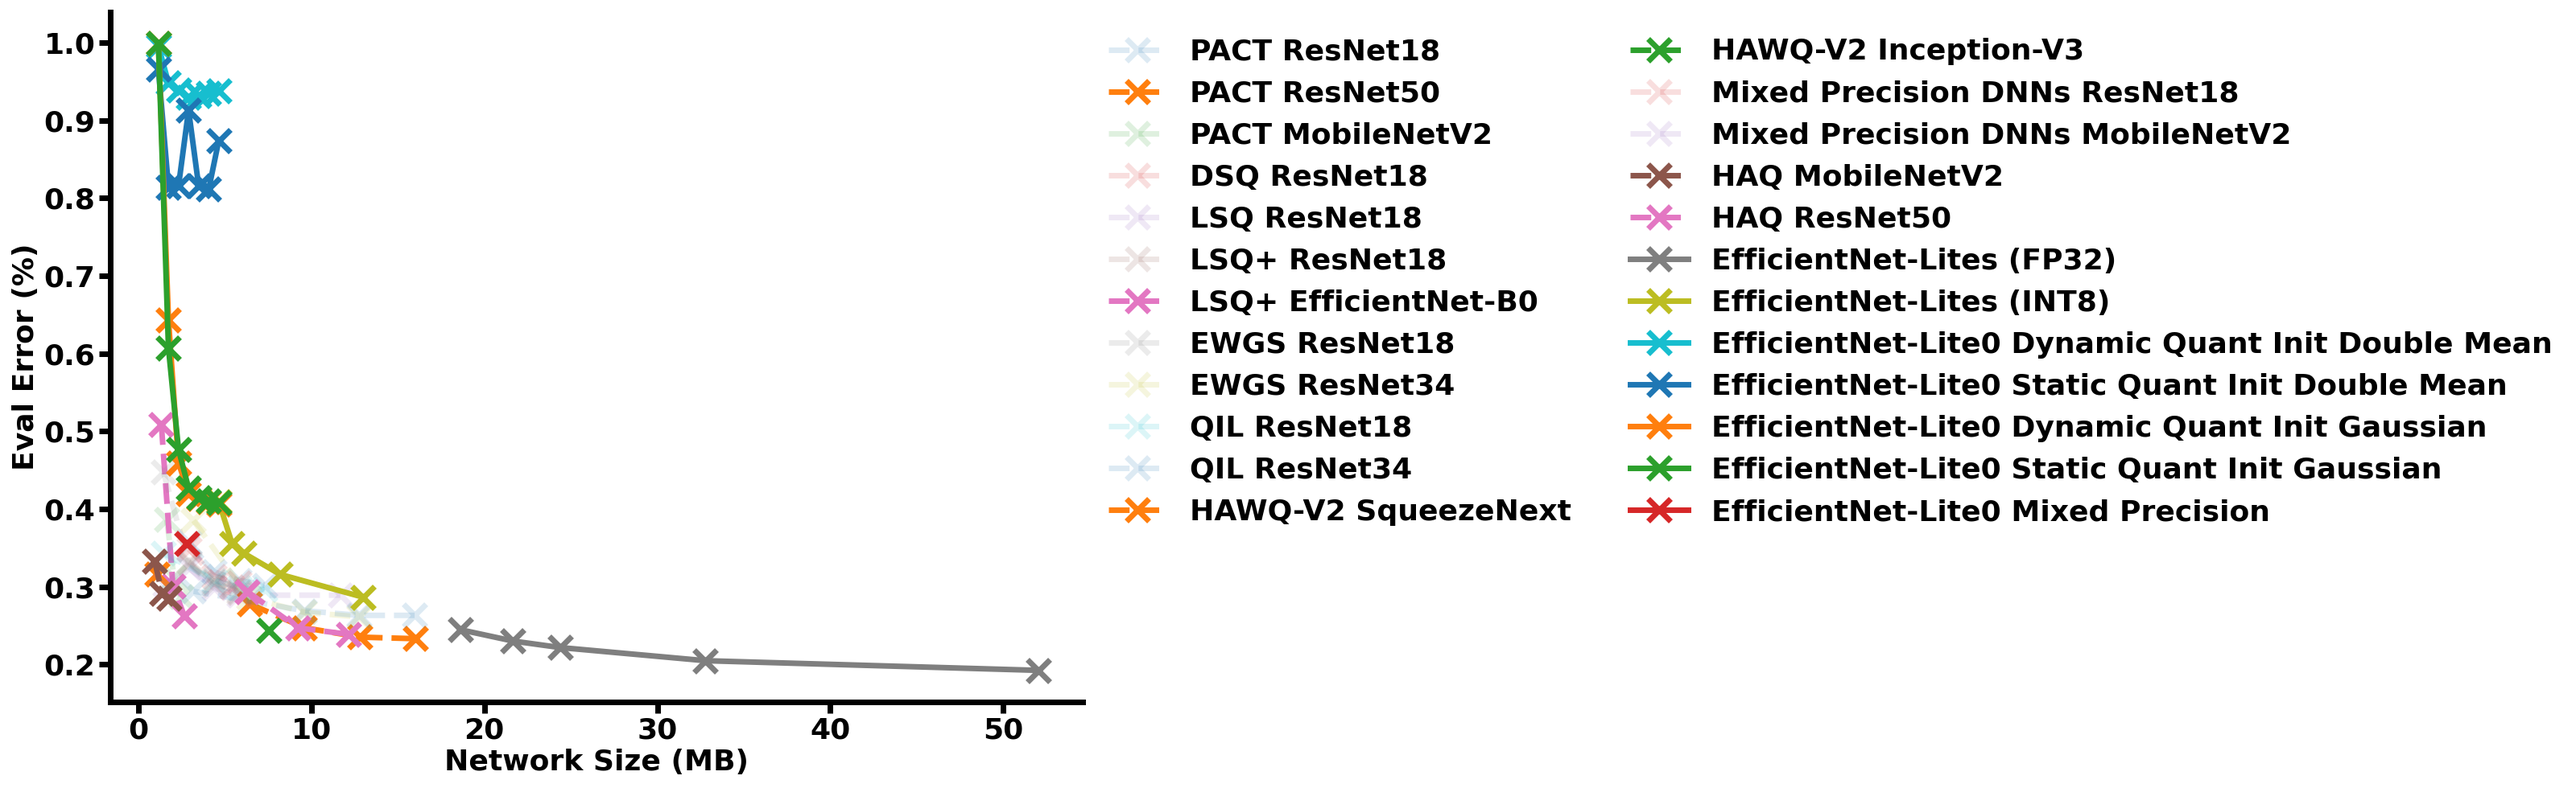
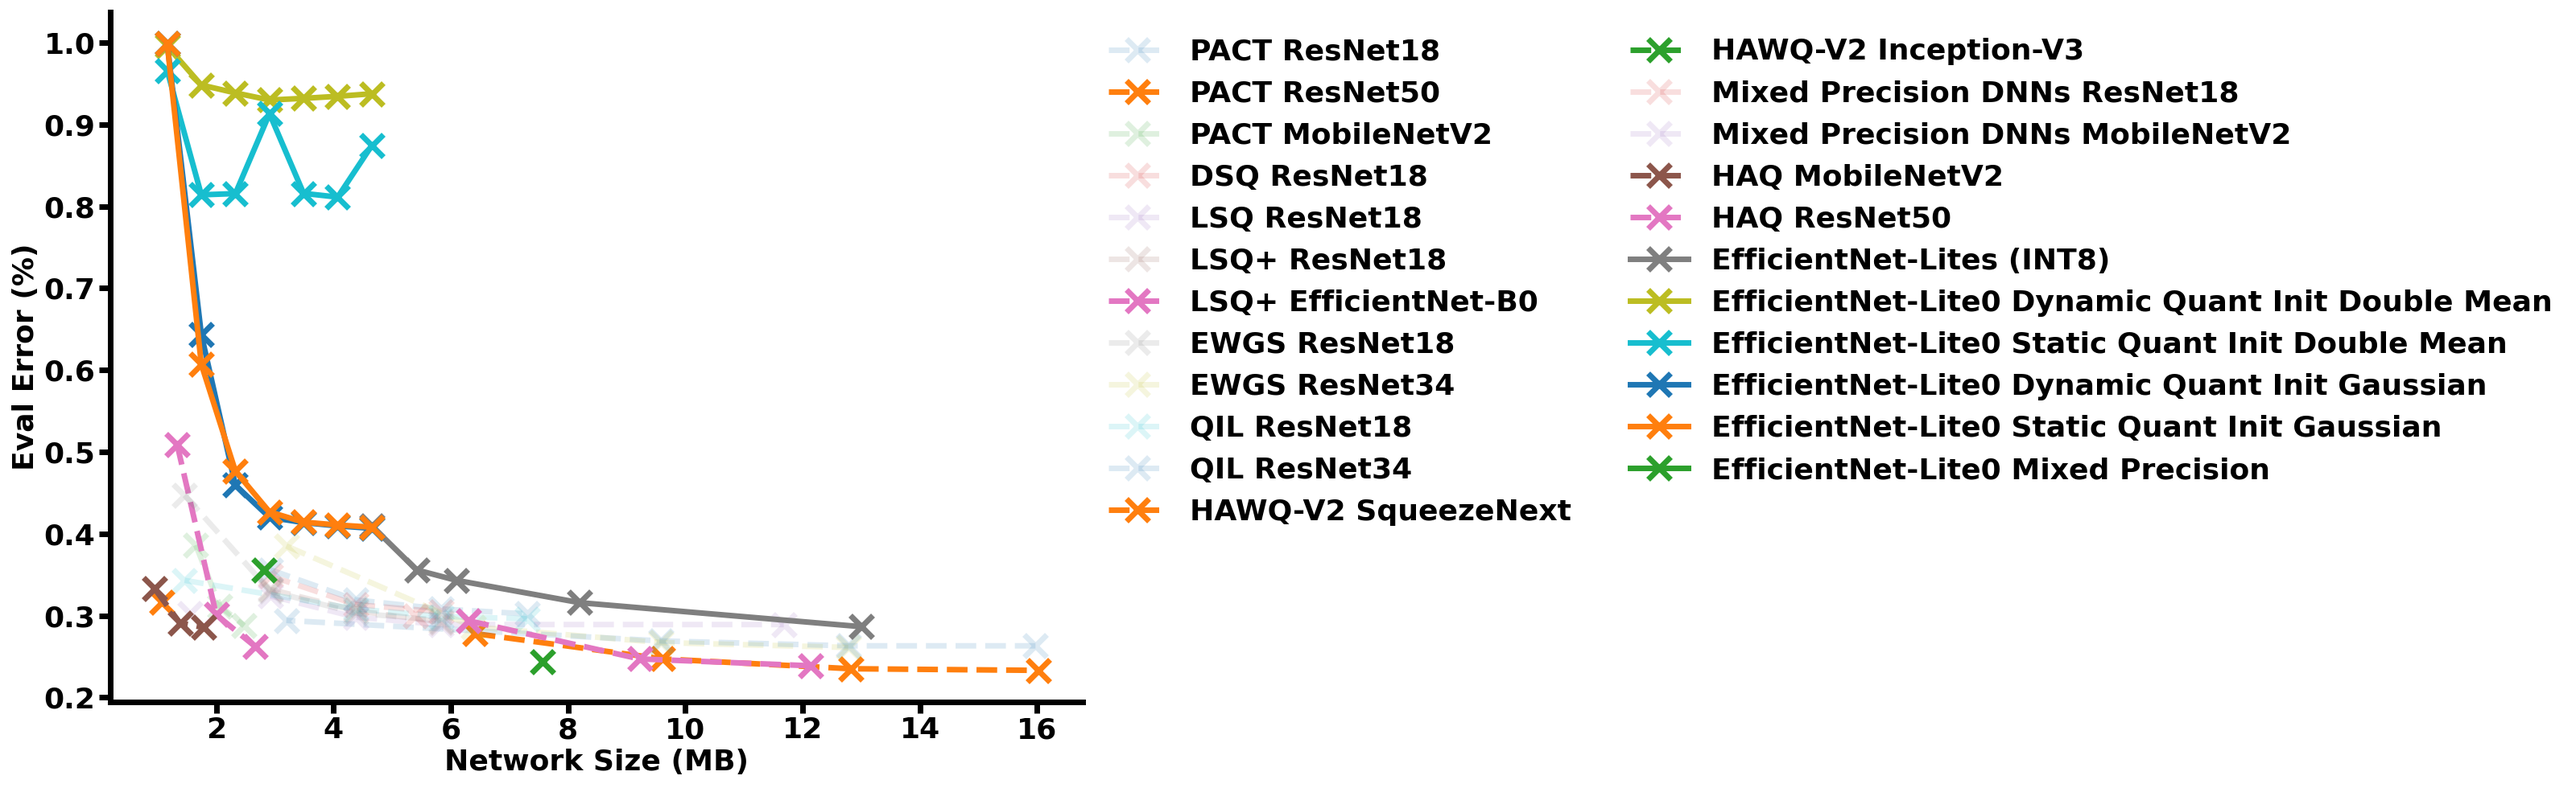
normal - figure

diff --git a/examples/efficientnet/visualization.py b/examples/efficientnet/visualization.py
@@ -511,7 +511,7 @@ def plot_comparison(name):
     ax.plot(competitor_data['size_mb'], competitor_data['eval_err'], label = competitor_data['name'], marker='x', ms=20, markeredgewidth=5, linewidth=5, alpha=competitor_data['alpha'], linestyle='--')
 
   # Our own.
-  plot_line(ax, enets_fp32_t2)
+  # plot_line(ax, enets_fp32_t2)
   plot_line(ax, enets_int8_t2)
 
 
